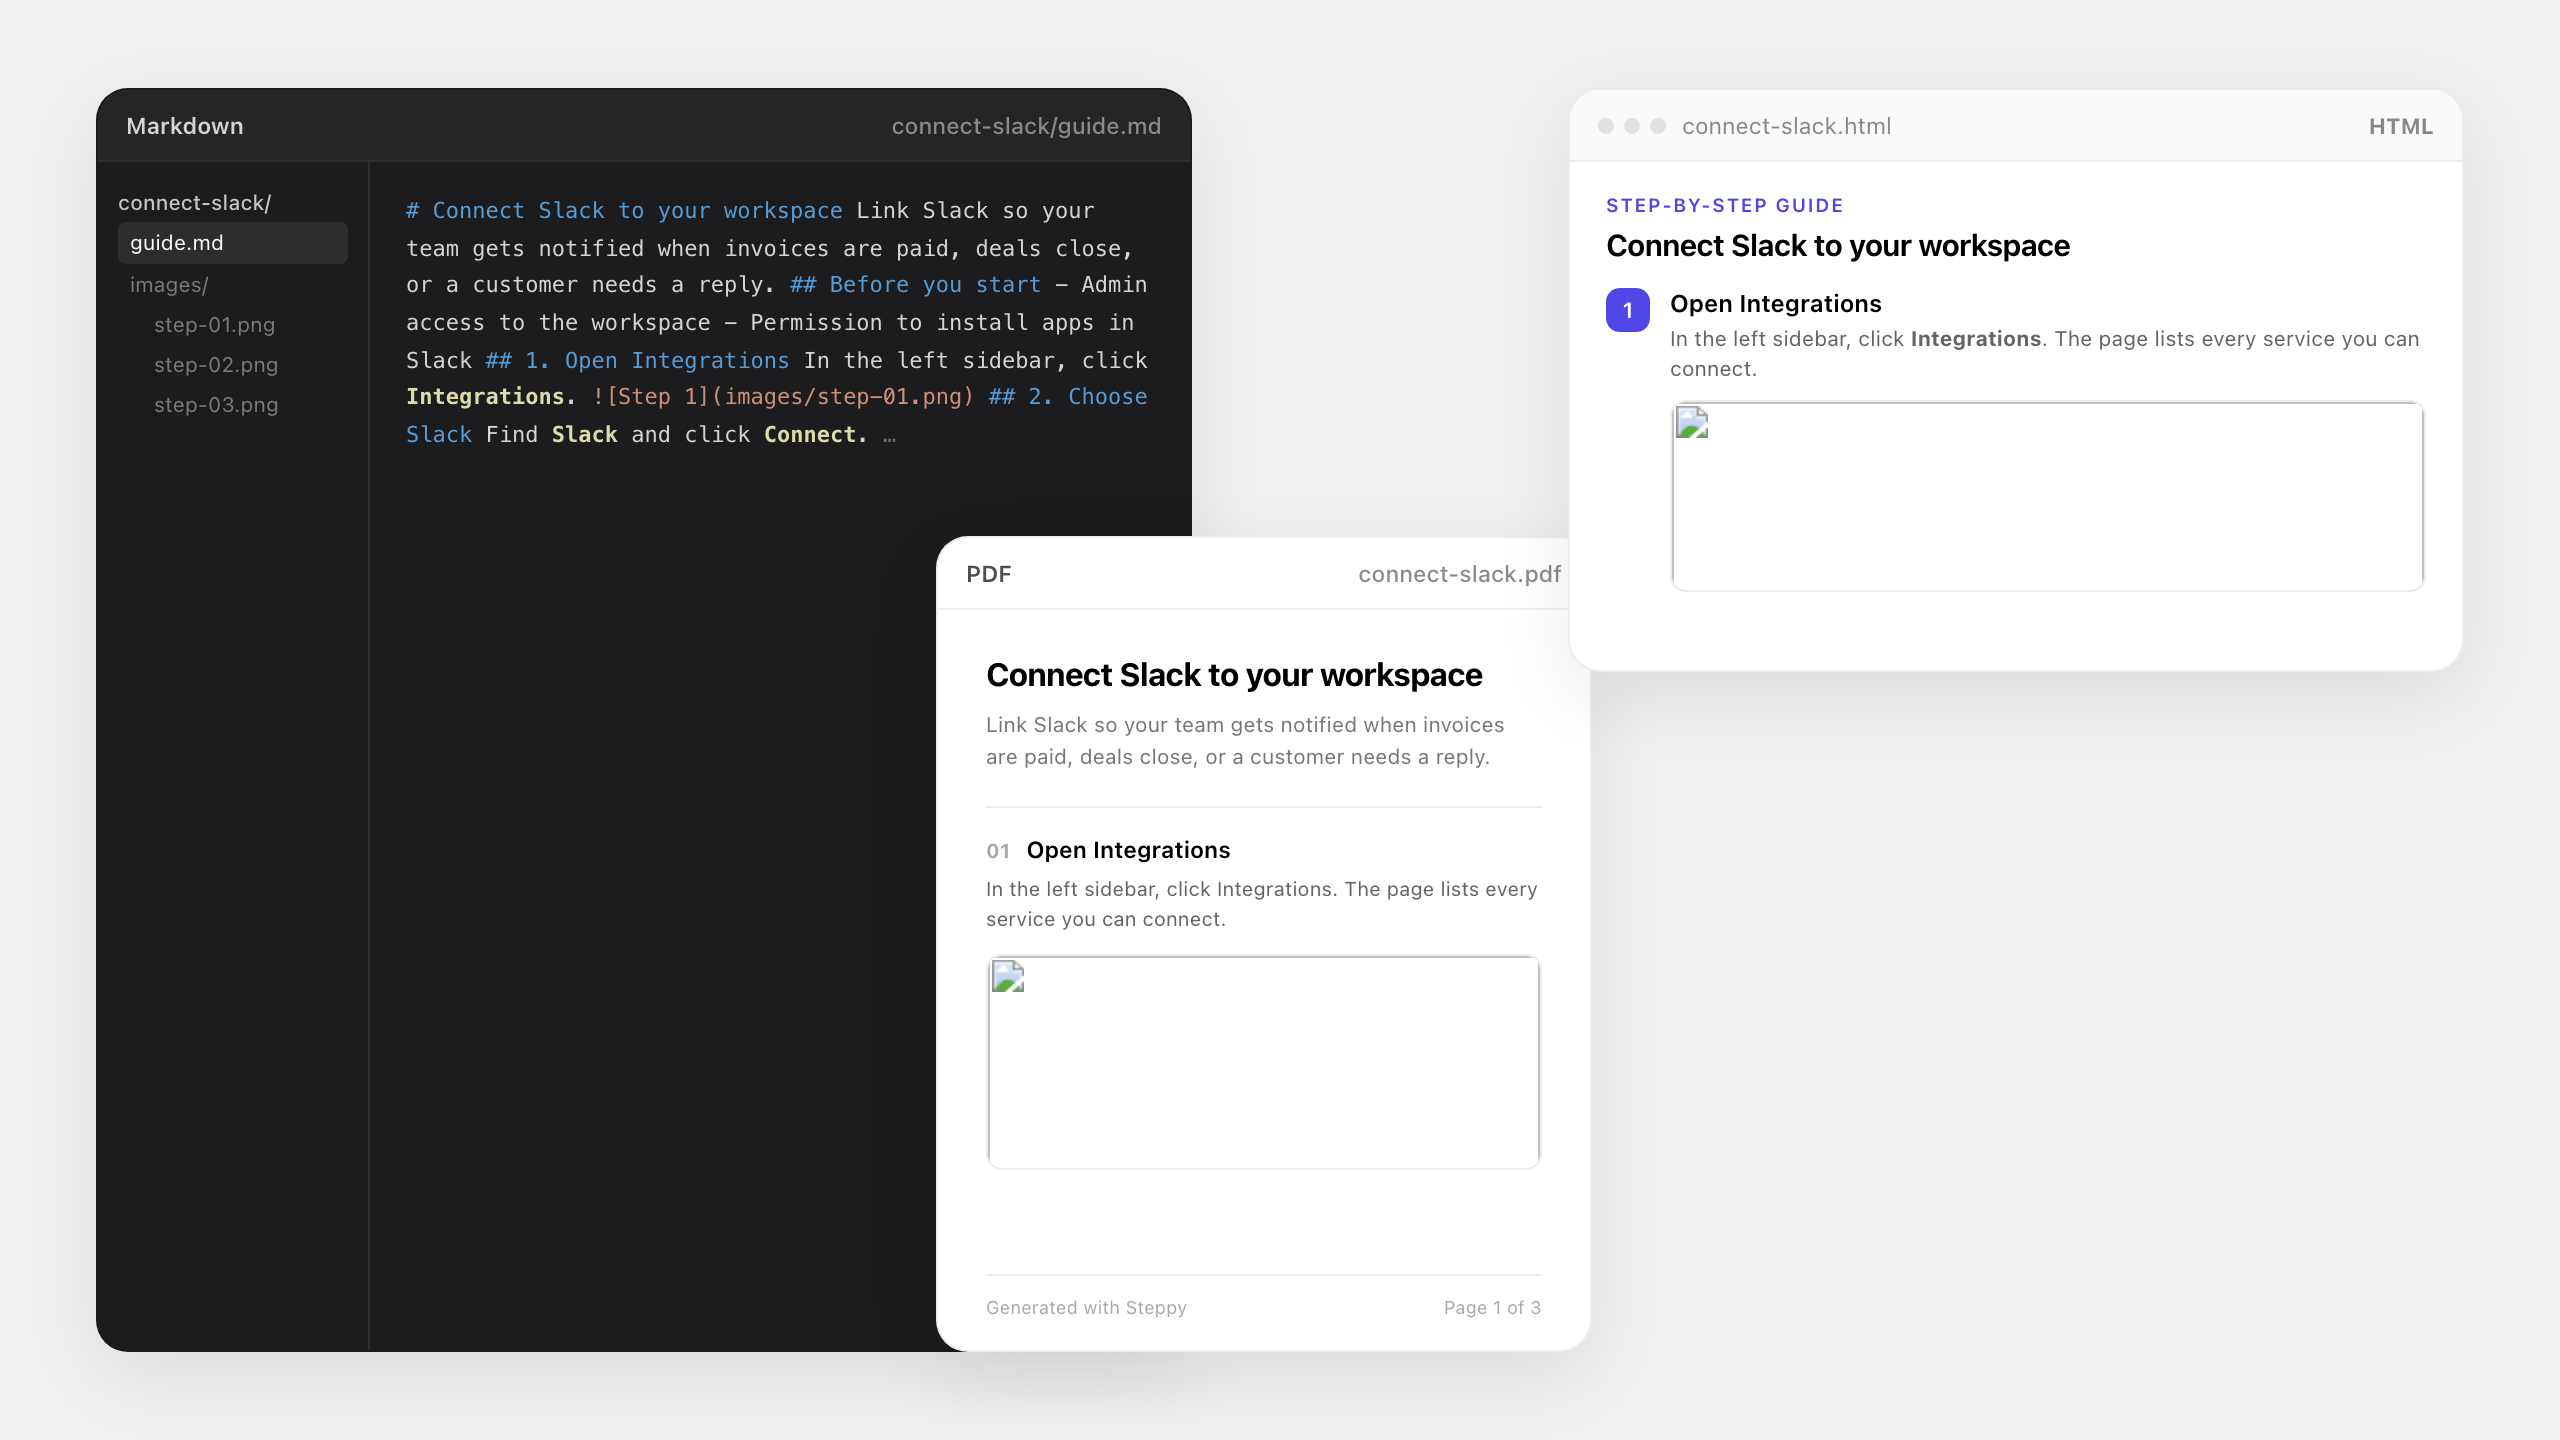
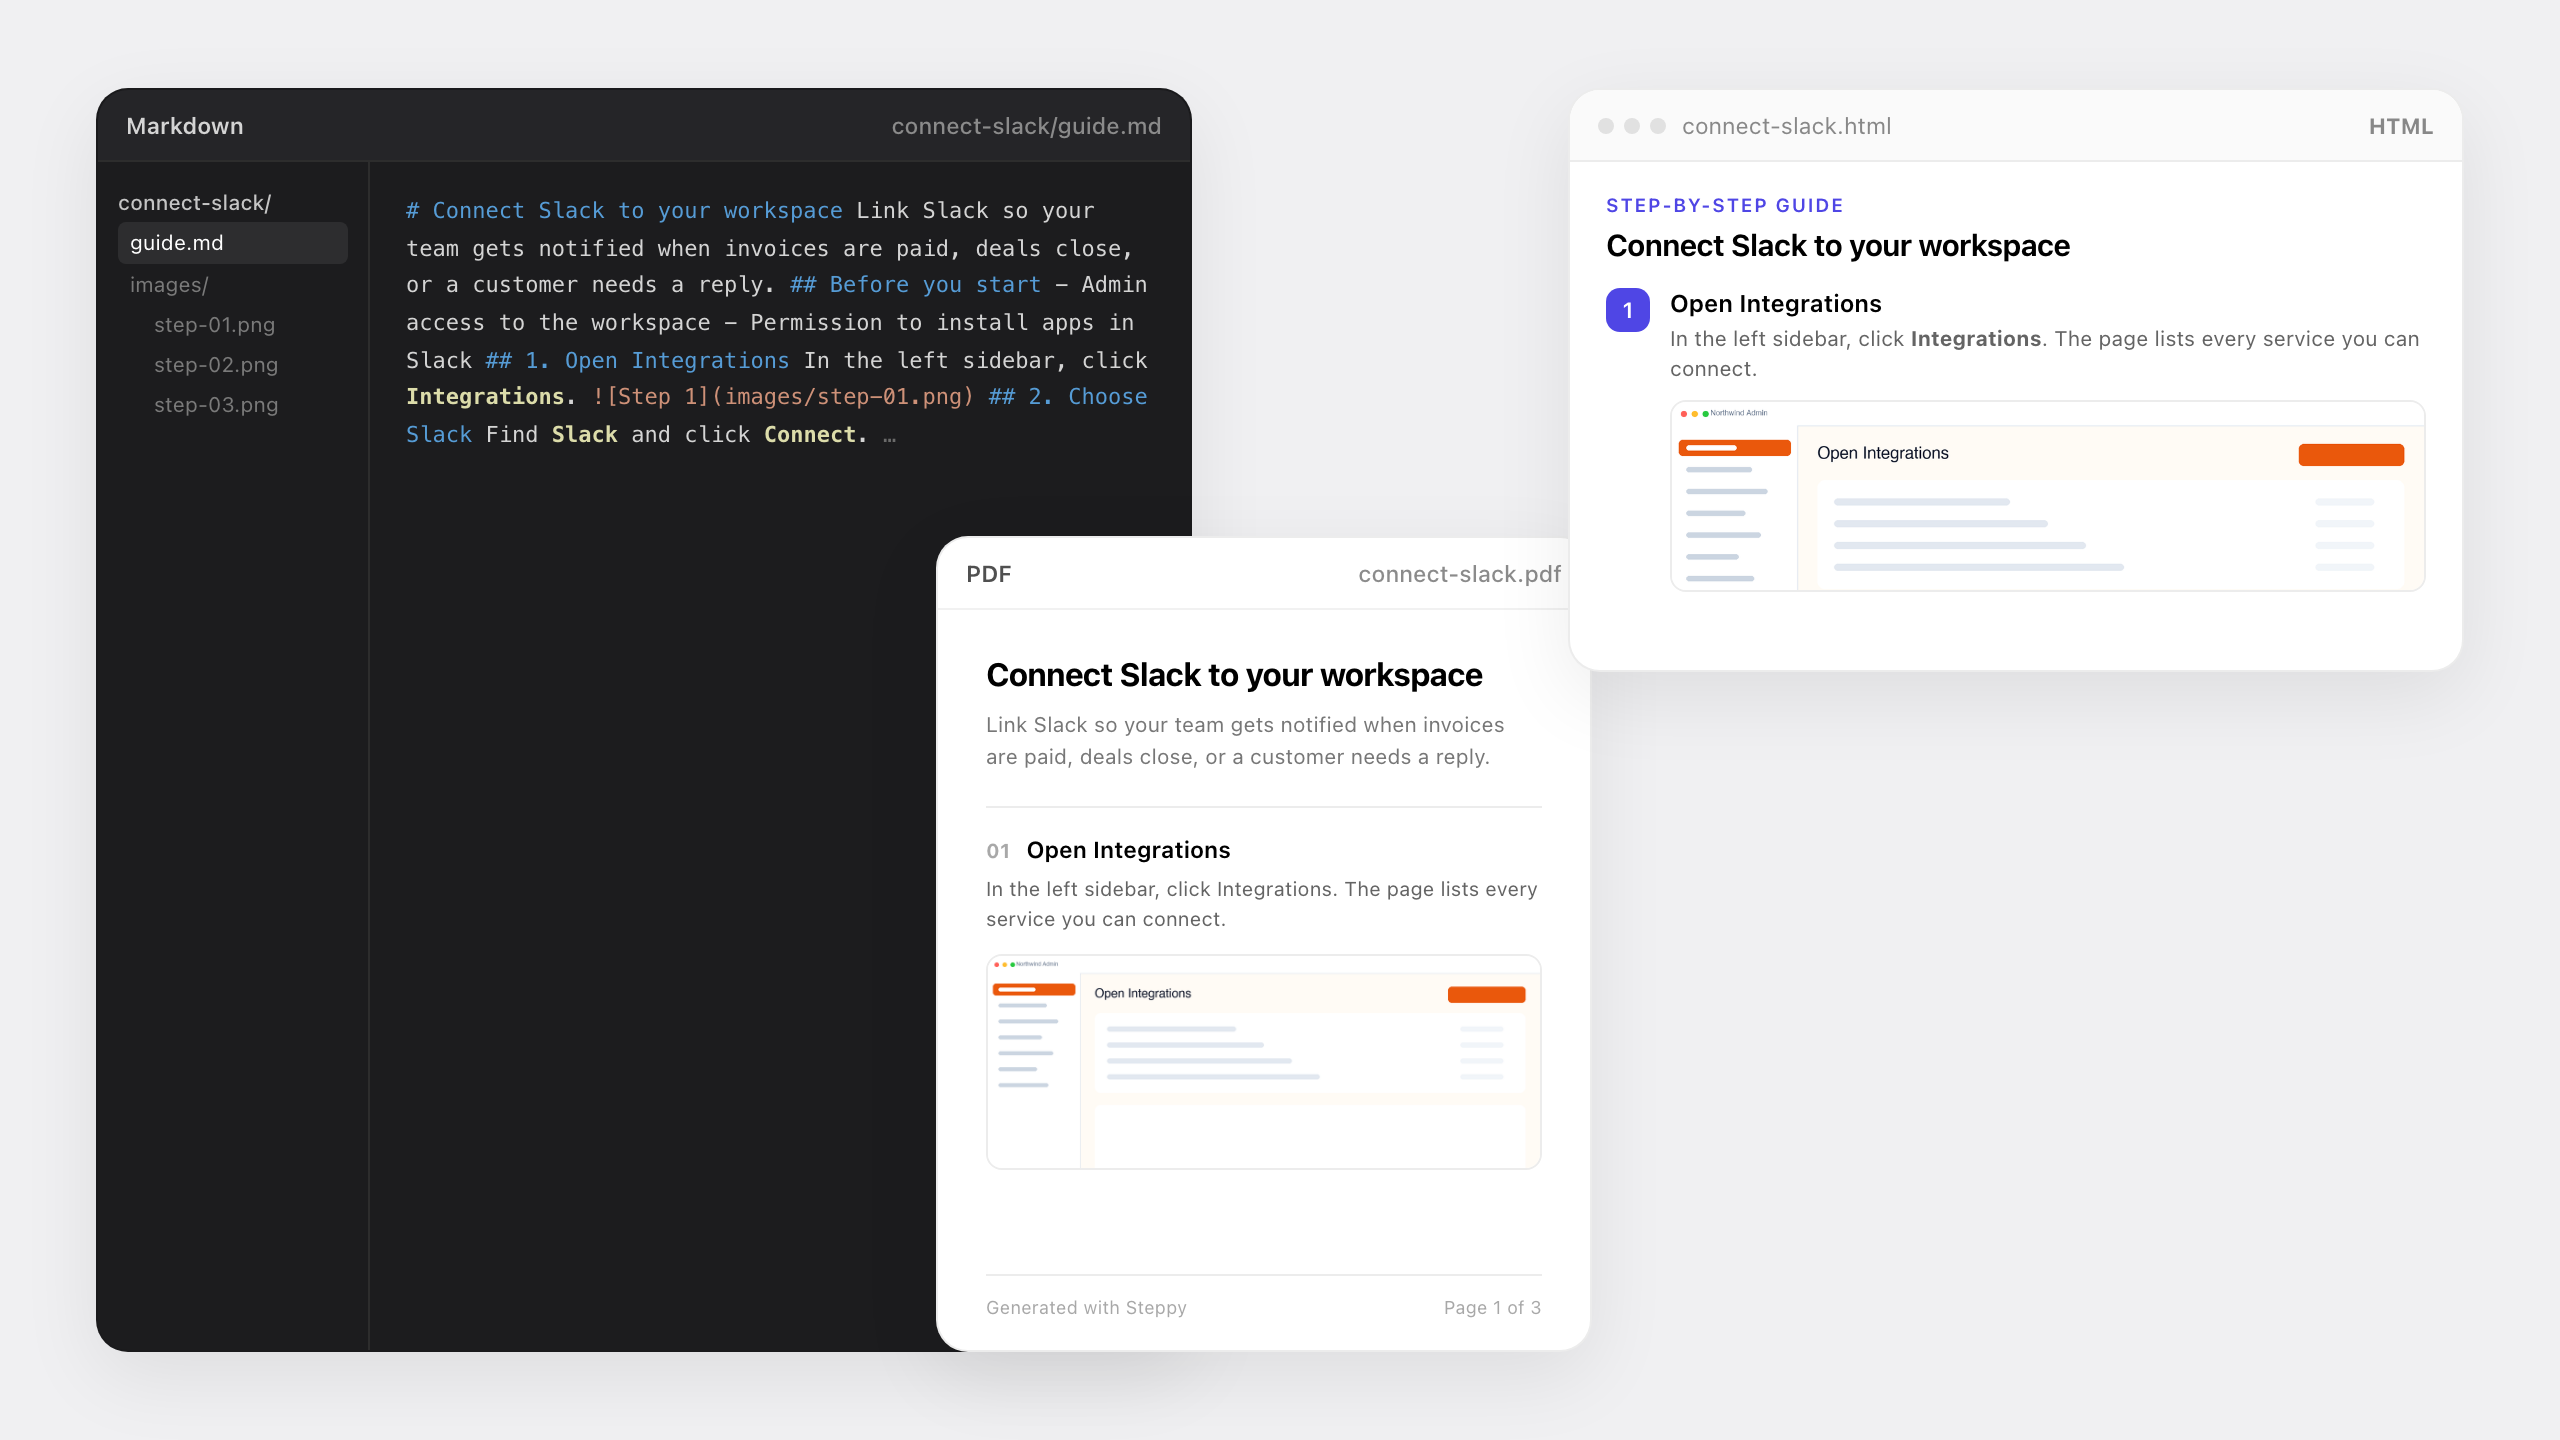
fix(docs): regenerate README screenshots with frame assets
Generate mock frame PNGs before Playwright capture so editor and other
screenshot mocks no longer render broken image placeholders.

diff --git a/scripts/generate_screenshot_assets.py b/scripts/generate_screenshot_assets.py
@@ -1,0 +1,67 @@
+#!/usr/bin/env python3
+"""Generate PNG assets for static HTML screenshot mocks."""
+
+from __future__ import annotations
+
+from pathlib import Path
+
+from PIL import Image
+
+from seed_demo import GUIDES, PALETTE, synthetic_frame
+
+ROOT = Path(__file__).resolve().parent
+FRAMES = ROOT / "static" / "images" / "frames"
+COVERS = ROOT / "static" / "images" / "covers"
+
+# Filenames referenced by scripts/screenshots/*.html
+INVOICE_FRAMES = [
+    ("000003200-462a84.png", 0, "Open the billing settings"),
+    ("000010000-ab454c.png", 1, "Start a new invoice"),
+    ("000016800-393e9c.png", 2, "Pick the customer"),
+    ("000023600-4526e0.png", 3, "Add the line items"),
+    ("000030400-80e335.png", 4, "Send the invoice"),
+]
+
+COVER_IDS = ["mock-invoice", "mock-slack", "mock-password", "mock-product", "mock-report"]
+COVER_FILES = ["invoice.png", "slack.png", "password.png", "product.png", "report.png"]
+
+
+def save_frame(path: Path, theme: int, step_index: int, title: str, app_name: str) -> None:
+    img = synthetic_frame(theme, step_index, title, app_name)
+    # Smaller files; mocks only need preview resolution.
+    width = 1200
+    height = round(width * 9 / 16)
+    img = img.resize((width, height), Image.Resampling.LANCZOS)
+    img.save(path, optimize=True)
+
+
+def main() -> None:
+    FRAMES.mkdir(parents=True, exist_ok=True)
+    COVERS.mkdir(parents=True, exist_ok=True)
+
+    invoice = GUIDES[0]
+    theme = invoice["theme"]
+    app_name = PALETTE[theme][2]
+
+    for filename, step_index, title in INVOICE_FRAMES:
+        save_frame(FRAMES / filename, theme, step_index, title, app_name)
+
+    slack = GUIDES[1]
+    slack_theme = slack["theme"]
+    slack_app = PALETTE[slack_theme][2]
+    save_frame(FRAMES / "slack-step-01.png", slack_theme, 0, slack["steps"][0][0], slack_app)
+
+    for guide_id, cover_file in zip(COVER_IDS, COVER_FILES):
+        guide = next(g for g in GUIDES if g["id"] == guide_id)
+        theme = guide["theme"]
+        app_name = PALETTE[theme][2]
+        title = guide["steps"][0][0]
+        img = synthetic_frame(theme, 0, title, app_name)
+        img = img.resize((640, round(640 * 9 / 16)), Image.Resampling.LANCZOS)
+        img.save(COVERS / cover_file, optimize=True)
+
+    print(f"Wrote screenshot assets under {ROOT / 'static' / 'images'}")
+
+
+if __name__ == "__main__":
+    main()

diff --git a/docs/screenshots/README.md b/docs/screenshots/README.md
@@ -5,9 +5,11 @@ PNG previews for the GitHub README and docs. They are rendered from static HTML 
 Regenerate after UI changes:
 
 ```bash
-pnpm install   # needs playwright
+pnpm install   # needs playwright + pillow (for asset generation)
 pnpm capture:screenshots
 ```
+
+Asset PNGs under [`scripts/static/images/`](../scripts/static/images/) are generated automatically by `scripts/generate_screenshot_assets.py`.
 
 Optional: run `python3 scripts/seed_demo.py` first if you also refresh marketing assets that use real demo project frames.
 
